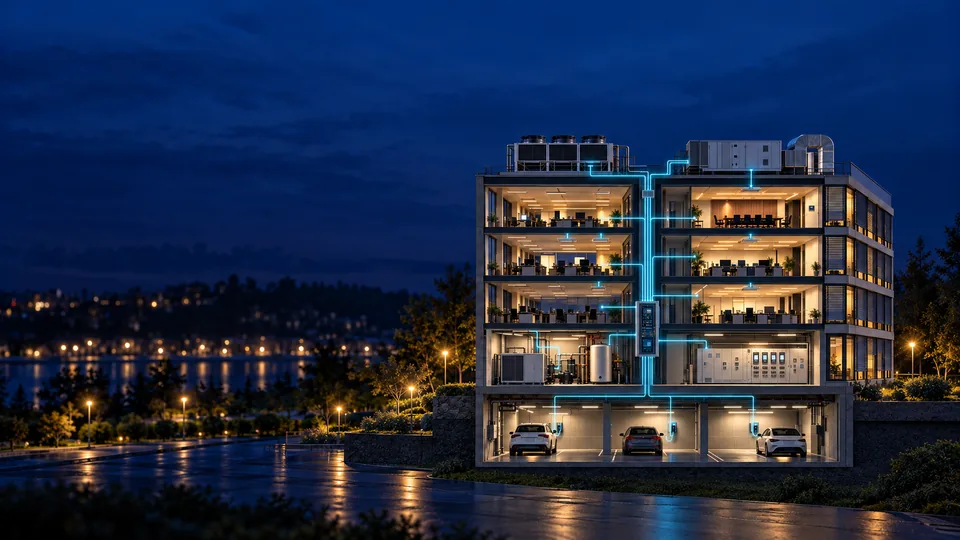
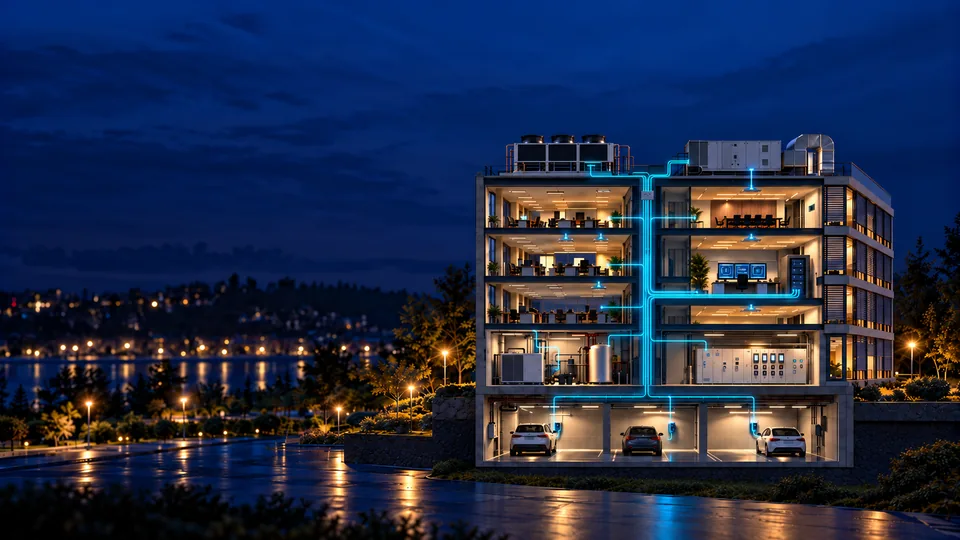
Start: neue Gebäudegrafik, Management- und Bedieneinrichtung

diff --git a/index.html b/index.html
@@ -15,7 +15,7 @@
 	<meta property="og:title" content="Ingenieurbüro für Gebäudeautomation in München | Buchholz GmbH">
 	<meta property="og:description" content="Seit über 25 Jahren spezialisiert auf Gebäudeautomation. Herstellerneutral, für öffentliche und private Auftraggeber.">
 	<meta property="og:url" content="https://www.ib-buchholz.de/">
-	<meta property="og:image" content="https://www.ib-buchholz.de/assets/images/hero-gebaeude-1600x900.webp">
+	<meta property="og:image" content="https://www.ib-buchholz.de/assets/images/hero-gebaeude-1600x900.webp?v=2">
 
 	<link rel="icon" href="favicon.ico" sizes="48x48">
 	<link rel="icon" href="favicon.svg" type="image/svg+xml">
@@ -23,7 +23,7 @@
 	<link rel="manifest" href="site.webmanifest">
 
 	<link rel="preload" href="assets/fonts/readex-pro-latin.woff2" as="font" type="font/woff2" crossorigin>
-	<link rel="preload" href="assets/images/hero-gebaeude-1600x900.webp" as="image" imagesrcset="assets/images/hero-gebaeude-960x540.webp 960w, assets/images/hero-gebaeude-1600x900.webp 1600w" imagesizes="100vw">
+	<link rel="preload" href="assets/images/hero-gebaeude-1600x900.webp?v=2" as="image" imagesrcset="assets/images/hero-gebaeude-960x540.webp?v=2 960w, assets/images/hero-gebaeude-1600x900.webp?v=2 1600w" imagesizes="100vw">
 	<link rel="stylesheet" href="assets/styles/main.css?v=20261028c">
 	<script src="assets/scripts/main.js?v=20261028c" defer></script>
 
@@ -95,19 +95,19 @@
 		<section class="hero" aria-labelledby="hero-titel">
 			<div class="hero__visual">
 				<picture>
-					<img src="assets/images/hero-gebaeude-1600x900.webp"
-						srcset="assets/images/hero-gebaeude-960x540.webp 960w, assets/images/hero-gebaeude-1600x900.webp 1600w"
+					<img src="assets/images/hero-gebaeude-1600x900.webp?v=2"
+						srcset="assets/images/hero-gebaeude-960x540.webp?v=2 960w, assets/images/hero-gebaeude-1600x900.webp?v=2 1600w"
 						sizes="(min-width: 64rem) 120vh, 100vw"
-						width="1600" height="900" alt="Bürogebäude im Schnitt mit Tiefgarage: Ein zentraler GA-Schaltschrank ist über leuchtende Leitungen mit Kälte, Lüftung, Heizung, Elektroverteilung, Ladesäulen und allen Etagen verbunden" fetchpriority="high">
+						width="1600" height="900" alt="Bürogebäude im Schnitt mit Tiefgarage: Eine Leitzentrale mit Arbeitsplatz und Serverschrank ist über leuchtende Leitungen mit Kälte, Lüftung, Heizung, Elektroverteilung, Ladesäulen und allen Etagen verbunden" fetchpriority="high">
 				</picture>
 				<ul class="datapoints" aria-label="Gewerke, die die Gebäudeautomation verbindet">
 					<li class="datapoint" style="--x: 58.5%; --y: 26.5%; --i: 0">Kältetechnik</li>
 					<li class="datapoint" style="--x: 76%; --y: 28%; --i: 1">Raumlufttechnik</li>
 					<li class="datapoint" style="--x: 77.5%; --y: 39%; --i: 2">Raumautomation</li>
-					<li class="datapoint datapoint--flip" style="--x: 89.5%; --y: 47%; --i: 3">Beschattung / Sonnenschutz</li>
-					<li class="datapoint" style="--x: 57%; --y: 53.4%; --i: 4">Beleuchtungssteuerung</li>
+					<li class="datapoint datapoint--flip" style="--x: 90.1%; --y: 61%; --i: 3">Beschattung / Sonnenschutz</li>
+					<li class="datapoint" style="--x: 62.7%; --y: 57.6%; --i: 4">Beleuchtungssteuerung</li>
 					<li class="datapoint datapoint--flip" style="--x: 53.5%; --y: 69%; --i: 5">Heiztechnik</li>
-					<li class="datapoint" style="--x: 62.5%; --y: 63%; --i: 6">Warmwasserbereitung</li>
+					<li class="datapoint datapoint--flip" style="--x: 75.3%; --y: 50.3%; --i: 6">Management- und Bedieneinrichtung</li>
 					<li class="datapoint" style="--x: 77.5%; --y: 69%; --i: 7">Energiezählung</li>
 					<li class="datapoint" style="--x: 69.5%; --y: 79.5%; --i: 8">Lademanagement</li>
 				</ul>
